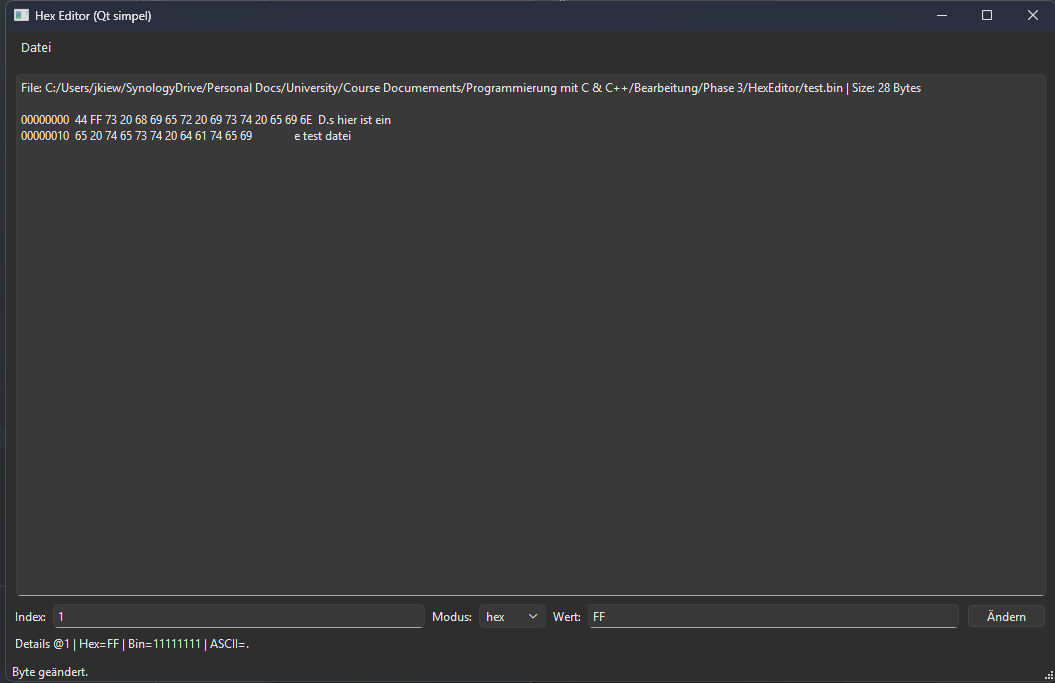
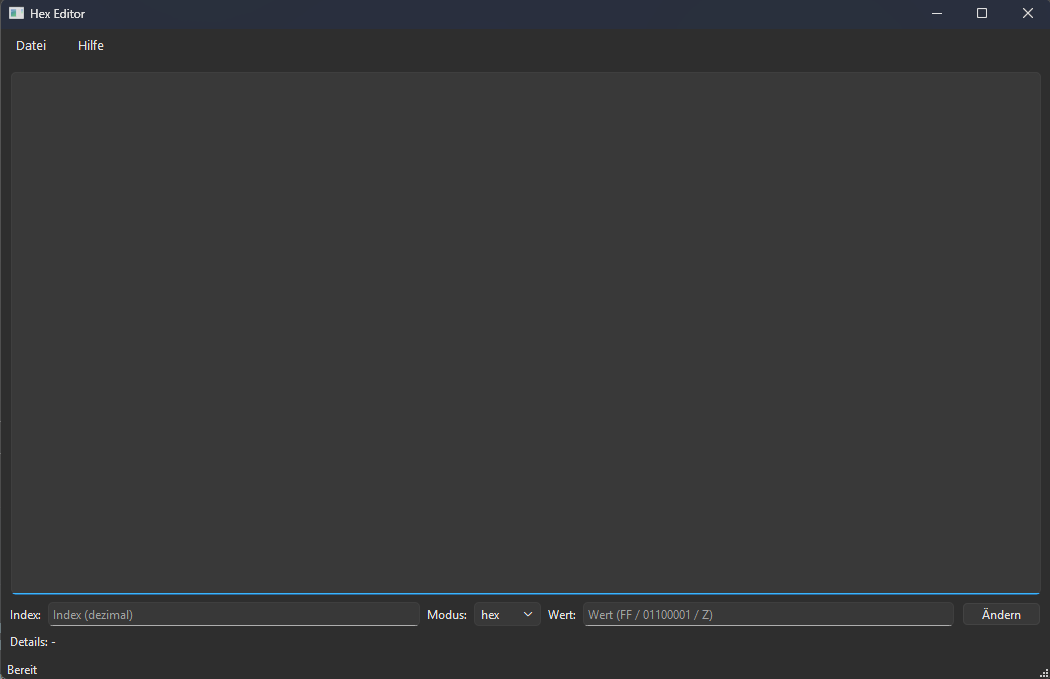
Phase 3 improvements: help menu, architecture diagram, documentation

diff --git a/src/MainWindow.cpp b/src/MainWindow.cpp
@@ -1,6 +1,7 @@
 #include "MainWindow.h"
 
 // Qt Widgets für GUI Elemente
+#include <QMessageBox>
 #include <QPlainTextEdit>
 #include <QFileDialog>
 #include <QMenuBar>
@@ -100,6 +101,12 @@ MainWindow::MainWindow(QWidget* parent) : QMainWindow(parent) {
     fileMenu->addAction("&Öffnen...", this, &MainWindow::openFile);
     fileMenu->addAction("&Speichern", this, &MainWindow::saveFile);
     fileMenu->addAction("Speichern &unter...", this, &MainWindow::saveFileAs);
+    
+    /*
+    Hilfe Menü mit kurzer Anleitung zur Benutzung der Anwendung
+    */
+    auto* helpMenu = menuBar()->addMenu("&Hilfe");
+    helpMenu->addAction("&Benutzung", this, &MainWindow::showHelp);
 
     // Verbindung des Buttons mit der Änderungsfunktion
     connect(applyBtn_, &QPushButton::clicked,
@@ -107,7 +114,7 @@ MainWindow::MainWindow(QWidget* parent) : QMainWindow(parent) {
 
     statusBar()->showMessage("Bereit");
 
-    setWindowTitle("Hex Editor (Qt simpel)");
+    setWindowTitle("Hex Editor");
     resize(1050, 650);
 }
 
@@ -225,6 +232,52 @@ void MainWindow::saveFileAs() {
     );
 
     rebuildView();
+}
+
+/*
+------------------------------------------------------------
+Zeigt eine kurze Hilfe zur Benutzung des Programms an.
+
+Die Hilfe erklärt dem Benutzer die grundlegenden Schritte:
+Datei öffnen, Index eingeben, Modus wählen, Wert ändern
+und Datei speichern.
+------------------------------------------------------------
+*/
+void MainWindow::showHelp() {
+
+    QMessageBox::information(
+        this,
+        "Benutzung",
+        "Benutzung des Hex Editors:\n\n"
+
+        "1. Öffnen Sie eine Binärdatei über Datei -> Öffnen.\n"
+        "2. Der Inhalt der Datei wird im Editor angezeigt.\n\n"
+
+        "INDEX:\n"
+        "Der Index gibt die Position eines Bytes in der Datei an.\n"
+        "Das erste Byte hat den Index 0.\n"
+        "Das zweite Byte hat den Index 1 usw.\n"
+        "Der Index wird unten links im Eingabefeld eingegeben.\n\n"
+
+        "Beispiel:\n"
+        "Index 0  -> erstes Byte der Datei\n"
+        "Index 10 -> elftes Byte der Datei\n\n"
+
+        "BYTE ÄNDERN:\n"
+        "3. Geben Sie den gewünschten Index ein.\n"
+        "4. Wählen Sie den Modus: hex, bin oder ascii.\n"
+        "5. Geben Sie einen neuen Wert ein.\n"
+        "6. Klicken Sie auf 'Ändern', um das Byte zu bearbeiten.\n\n"
+
+        "SPEICHERN:\n"
+        "7. Speichern Sie die Datei über Datei -> Speichern\n"
+        "   oder Datei -> Speichern unter.\n\n"
+
+        "Beispiele für Werte:\n"
+        "hex   : FF\n"
+        "bin   : 01000001\n"
+        "ascii : Z"
+    );
 }
 
 /*

diff --git a/src/MainWindow.h b/src/MainWindow.h
@@ -18,9 +18,7 @@ Programmlogik (FileManager + Converter).
 
 /*
 Forward Declarations der Qt Widgets.
-
 Die tatsächlichen Includes erfolgen in der .cpp Datei.
-Dies reduziert Abhängigkeiten und beschleunigt das Kompilieren.
 */
 class QPlainTextEdit;
 class QLineEdit;
@@ -43,48 +41,30 @@ class MainWindow : public QMainWindow {
     Q_OBJECT
 
 public:
-
-    /*
-    Konstruktor des Hauptfensters.
-
-    Initialisiert die GUI-Komponenten und baut das Layout
-    der Anwendung auf.
-    */
     explicit MainWindow(QWidget* parent = nullptr);
 
 private slots:
 
-    /*
-    Öffnet eine Datei über einen Dateidialog und lädt sie
-    mit Hilfe des FileManager.
-    */
+
+    // Öffnet eine Datei über einen Dateidialog und lädt sie mit Hilfe des FileManager.
     void openFile();
 
-    /*
-    Speichert die aktuell geladene Datei.
-    Falls noch kein Dateipfad existiert, wird automatisch
-    ein "Speichern unter" Dialog geöffnet.
-    */
+    //Speichert die aktuell geladene Datei.
     void saveFile();
 
-    /*
-    Speichert die Datei unter einem neuen Namen.
-    */
+    //Speichert die Datei unter einem neuen Namen.
     void saveFileAs();
-
-    /*
-    Wendet eine Byte-Änderung an.
-
-    Der Benutzer gibt Index, Modus (hex/bin/ascii)
-    und einen neuen Wert ein.
-    */
+   
+    // Wendet eine Byte-Änderung an.
     void applyChange();
+    
+    //Zeigt eine kurze Hilfe zur Benutzung der Anwendung an.
+    void showHelp();
 
 private:
 
     /*
     Baut die komplette Hex-Editor Ansicht neu auf.
-
     Dabei wird die Datei zeilenweise dargestellt:
     Adresse | Hex Werte | ASCII Darstellung
     */
@@ -92,7 +72,6 @@ private:
 
     /*
     Wandelt eine Benutzereingabe in ein Byte um.
-
     Unterstützte Eingabeformate:
     - hex
     - bin
@@ -112,7 +91,6 @@ private:
 
     /*
     Hilfsfunktion für Speichern.
-
     Wenn noch kein Dateipfad existiert,
     wird ein "Speichern unter" Dialog geöffnet.
     */

diff --git a/src/main.cpp b/src/main.cpp
@@ -26,38 +26,8 @@ Ablauf:
 */
 int main(int argc, char *argv[])
 {
-    /*
-    QApplication ist das zentrale Objekt jeder Qt GUI Anwendung.
-
-    Es verwaltet:
-    - das Event-System
-    - Fenster
-    - Benutzerinteraktionen (Maus, Tastatur)
-    */
     QApplication app(argc, argv);
-
-    /*
-    Erzeugt das Hauptfenster der Anwendung.
-
-    Die Klasse MainWindow baut dabei die komplette GUI auf
-    und stellt alle Funktionen des Hex-Editors bereit.
-    */
     MainWindow window;
-
-    /*
-    Zeigt das Hauptfenster auf dem Bildschirm an.
-    */
     window.show();
-
-    /*
-    Startet die Qt Event-Schleife.
-
-    Diese Schleife verarbeitet:
-    - Benutzerinteraktionen
-    - GUI Updates
-    - Events der Anwendung
-
-    Die Funktion blockiert, bis das Fenster geschlossen wird.
-    */
     return app.exec();
 }
